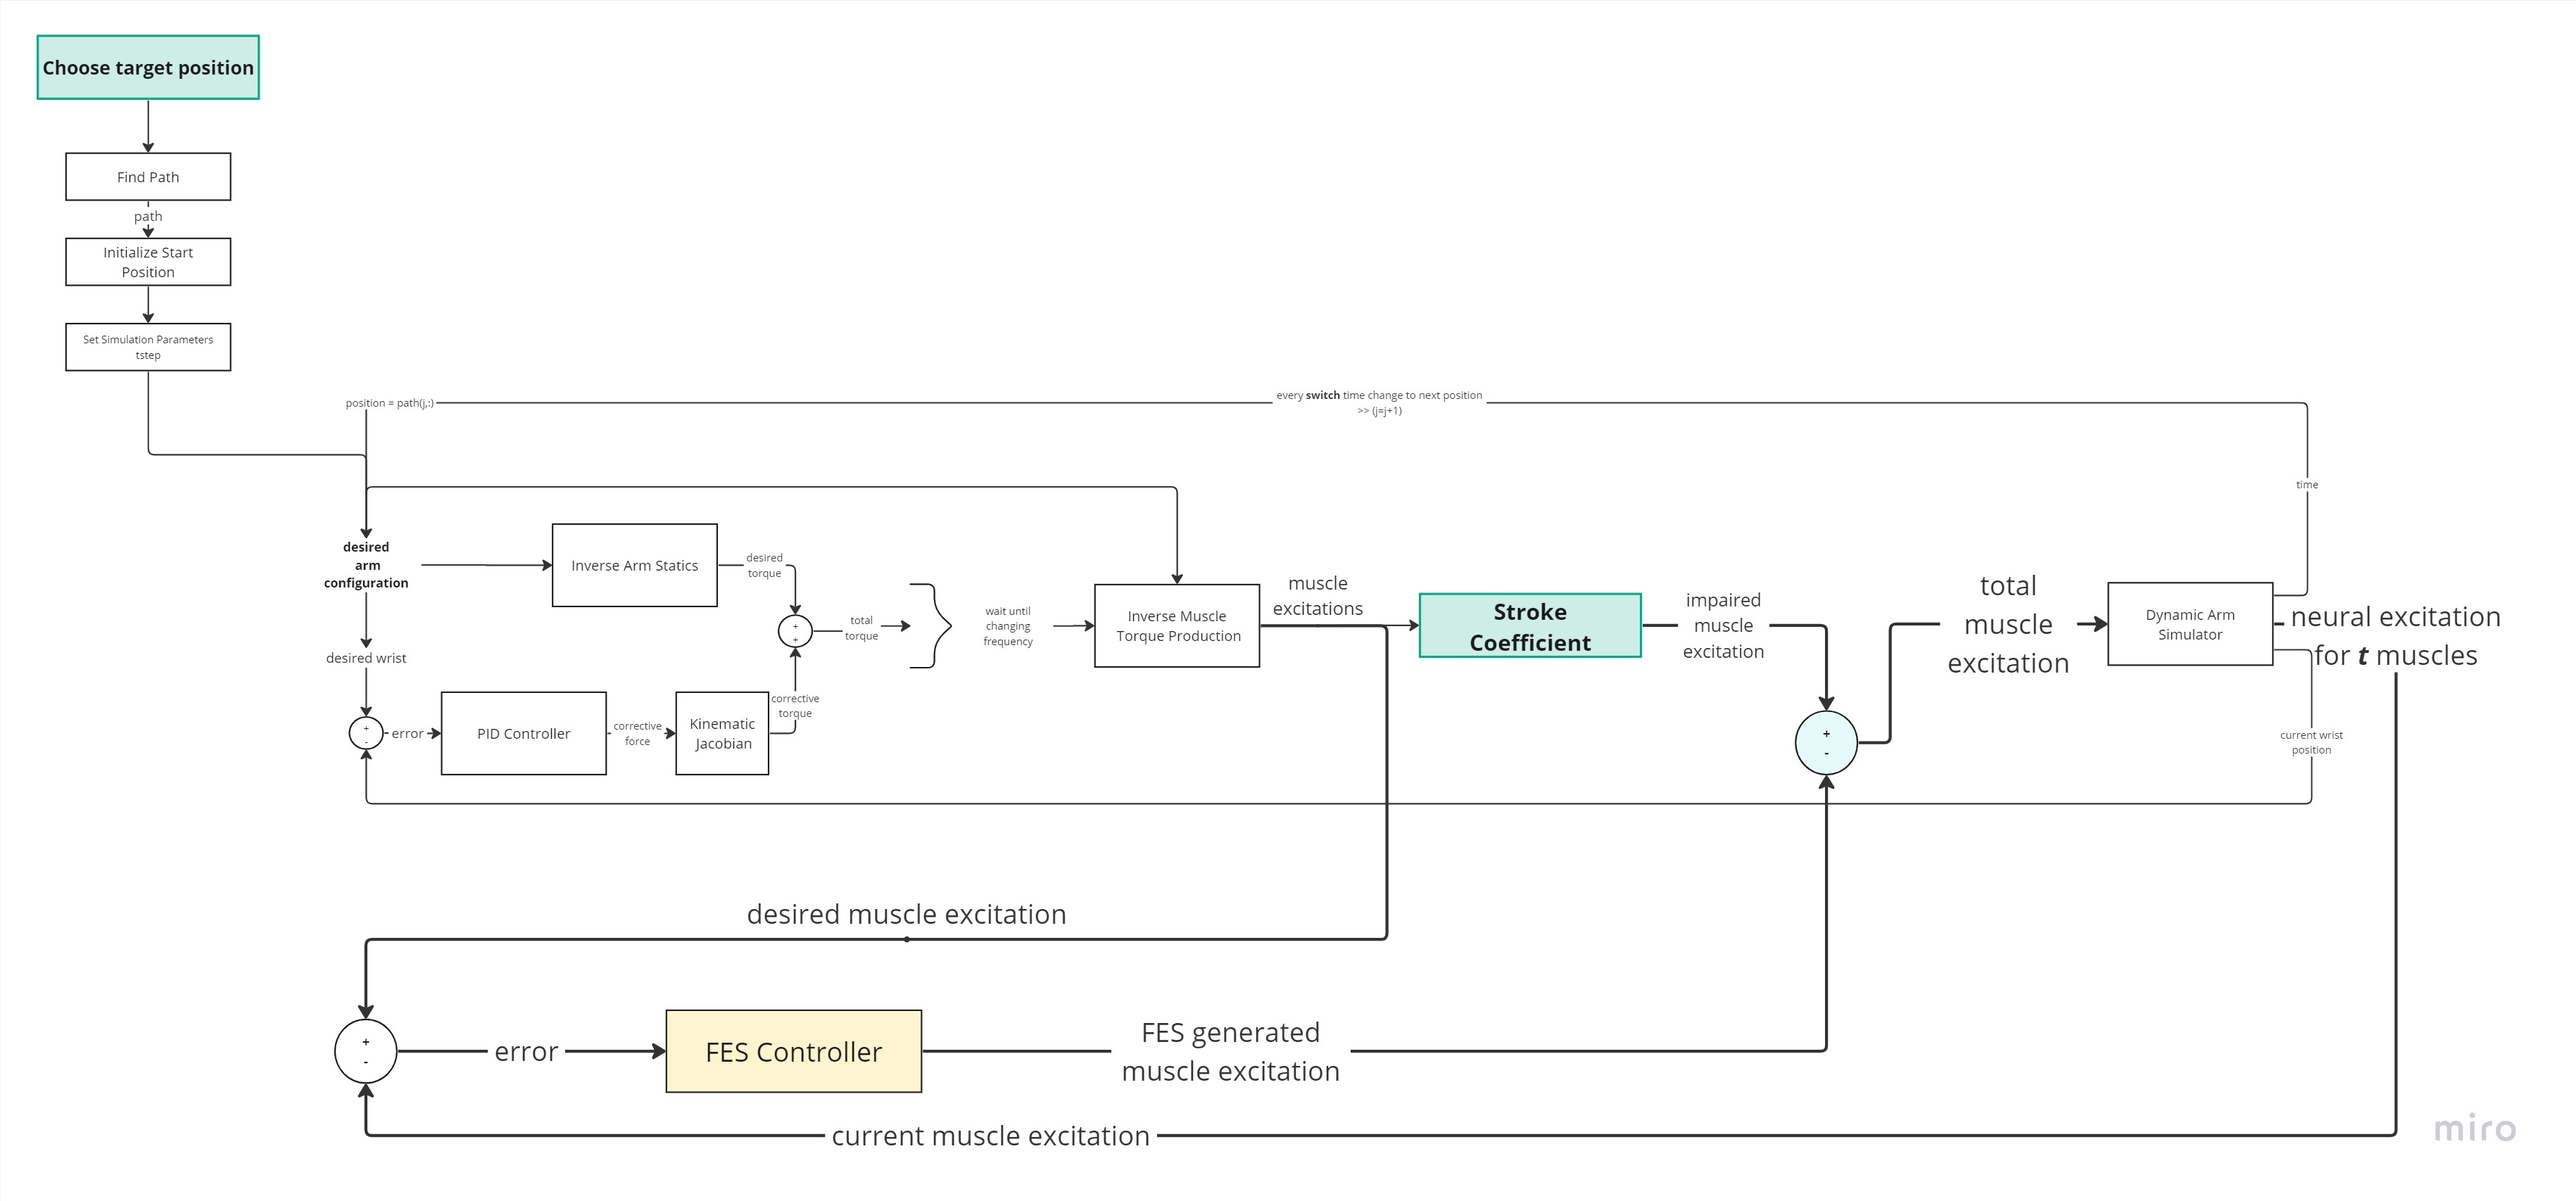
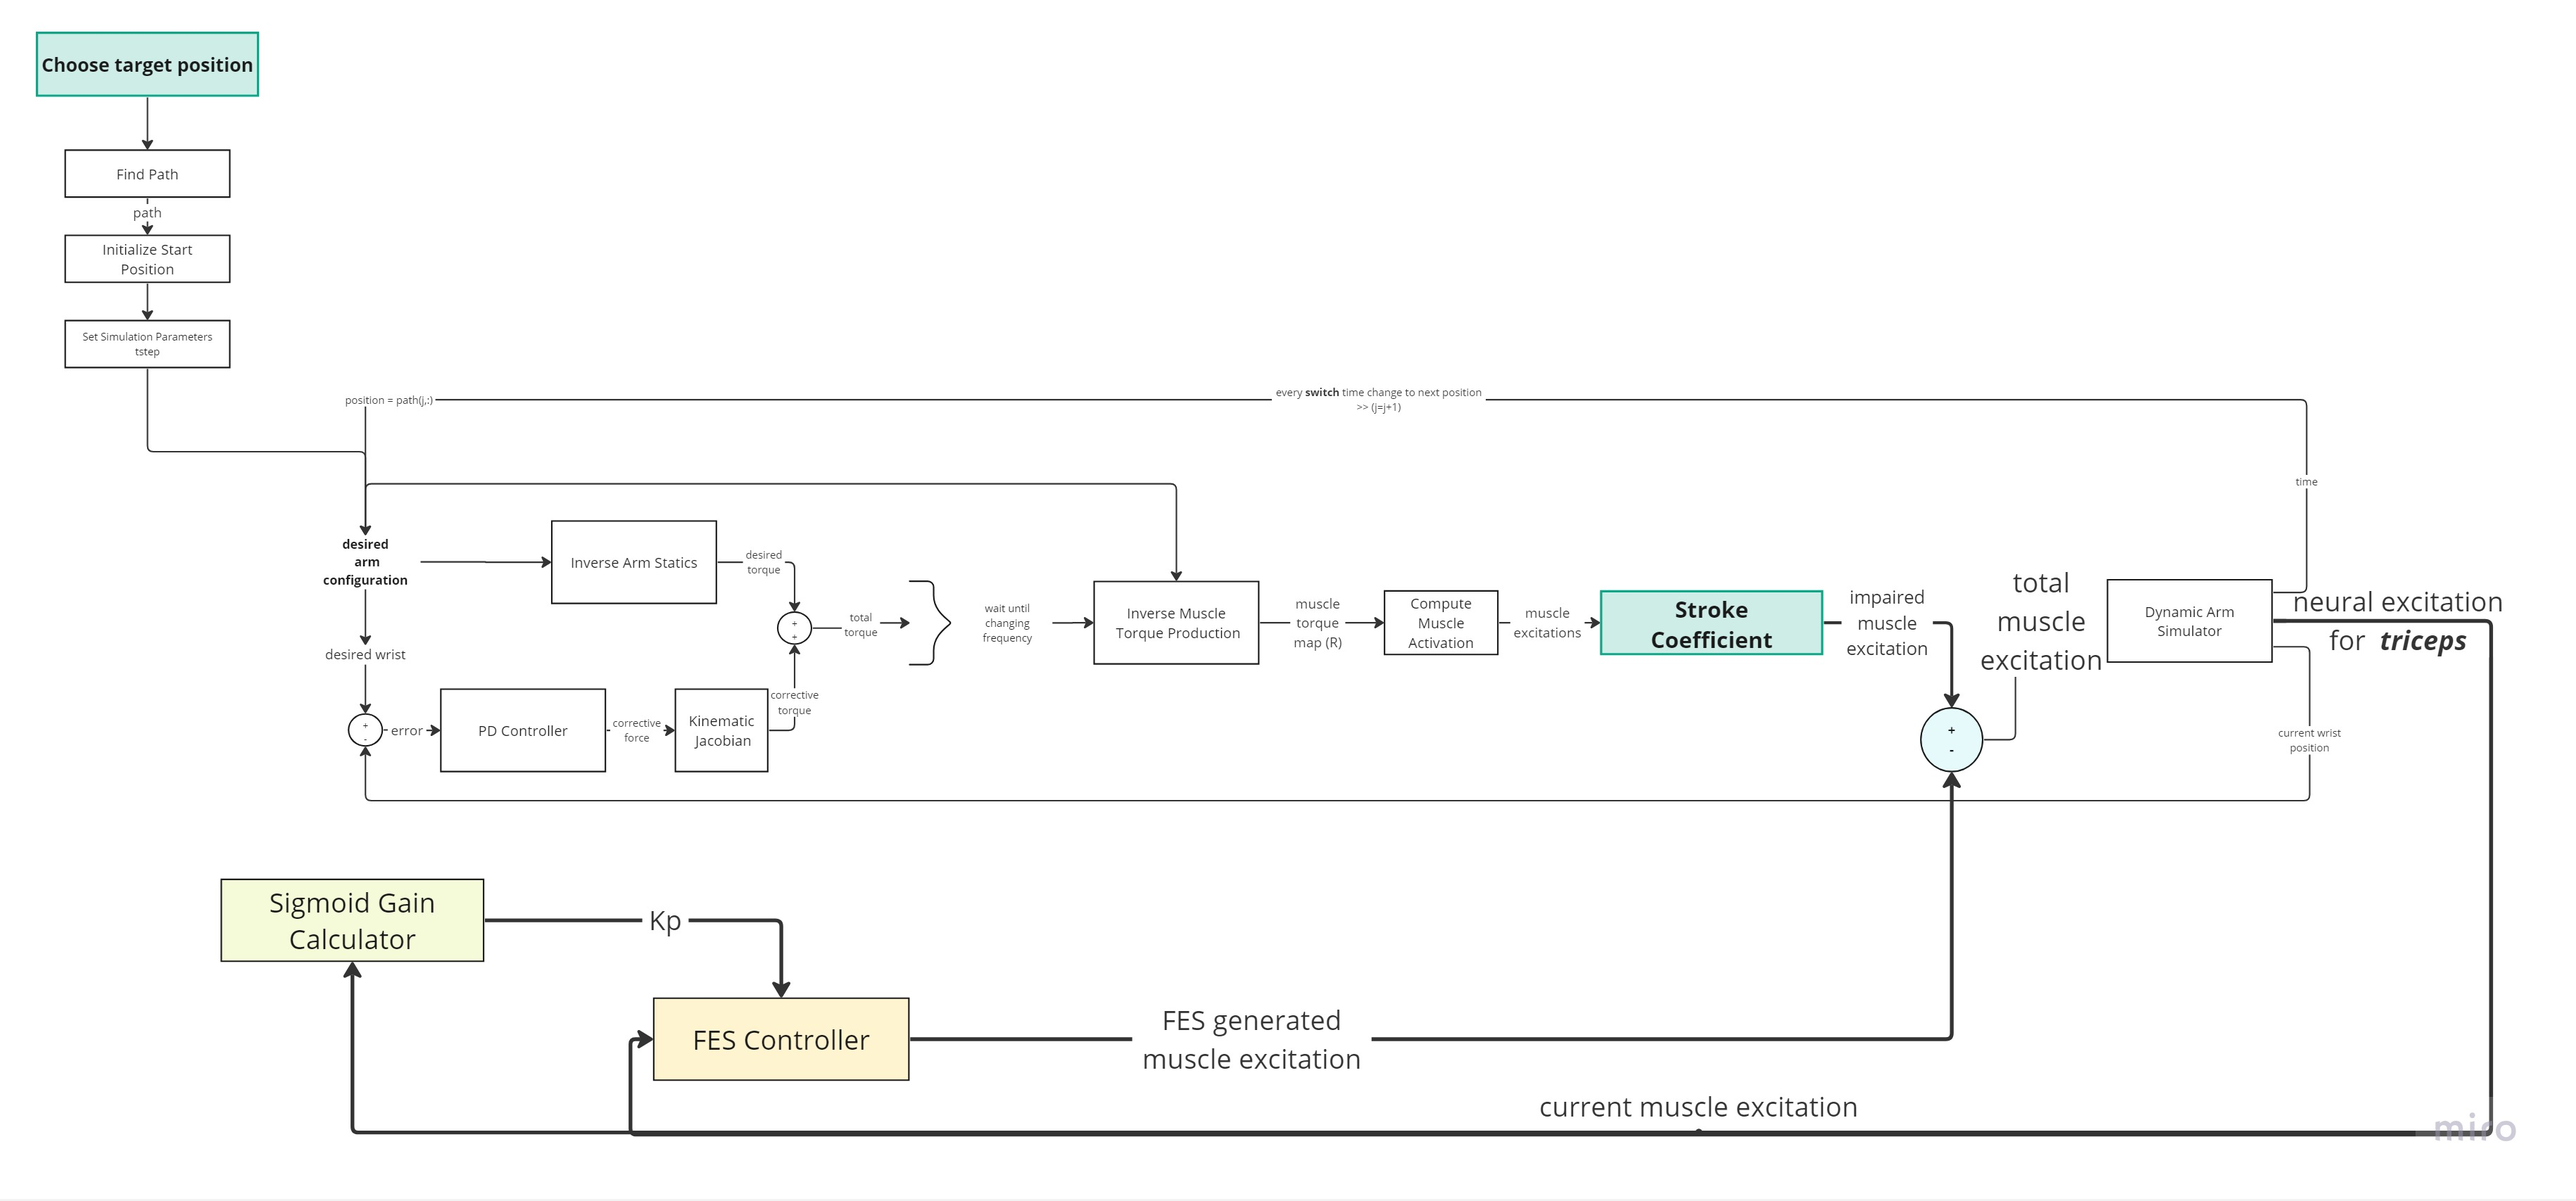
FInal Control

diff --git a/Chapters/05_3_Control_Design.tex b/Chapters/05_3_Control_Design.tex
@@ -22,17 +22,8 @@ The Dynamic Arm Simulator will then determine the arm's dynamics in accordance w
 To assure the PID Controller's performance, an exhaustive hand-tuning was undertaken across 20 different positions, concluding in values of \(K_p = 300\) and \(K_i = 100\). \(K_d = 0\) resulting in only a PD. 
 
 \subsection{Predicting Static Torque}
-static_torque = predict_static_torque(desired_arm_config)';
-desired_torque = torque_feedback+static_torque;
-TotalTorque(i,:)=desired_torque;
-if mod(i,10)==0
-    alpha0 = compute_neural_excitation(desired_arm_config, ...
-        desired_torque,alpha0);
-    for m=1:8
-        mus=whichMuscles(m);
-        u(mus)=alpha0(m)*1;
-    end            
-end
+
+To predict the static torque values for an arm configuration, the hyperparameters found for the Gaussian Process Arm Statics model described on section \ref{sec:model} are used. The resultant torque represent the torque needed to hold the arm static in that configuration.
 
 \subsection{Predicting Muscle Excitations}\label{computemuscleexcitation}
 
@@ -40,45 +31,27 @@ In muscle-driven systems, accurately determining muscle activation patterns is c
 
 The objective is to compute the muscle activation \texttt{act} for given muscle-torque relationships \texttt{M}, desired torques \texttt{tau}, and initial guesses for activations \texttt{alpha0}.
 
-The muscle-torque relationships \texttt{M} the Muscle Torque Production model hyperparameters calculated following the steps explain in Section \ref{sec:model}. This outputs a matrix each column represents the torque about the shoulder elevation plane, shoulder elevation, shoulder rotation adn elbow flexion produced by each muscle group. 
+The muscle-torque relationships \texttt{M} the Muscle Torque Production model hyperparameters calculated following the steps explain in Section \ref{sec:model} (see Formula \ref{eq:MAP}). The model gives out a matrix each column represents the torque for the desired shoulder elevation plane, shoulder elevation, shoulder rotation and elbow flexion produced by each muscle group. 
 
-\subsection{Methodology}
-\begin{description}
-    \item[Objective:] Solve the equation \( M \cdot \alpha = \tau \) for the muscle activations \( \alpha \).
-    \item[Broyden's Quasi-Newton Method:] This iterative optimization technique is employed to approximate the solution of the equation. It starts with an initial guess and updates it based on a Broyden approximation to the inverse Jacobian matrix.
-\end{description}
+The objective is to solve the equation:
+\begin{equation}
+    \tau_{desired} = M * \alpha_0
+\end{equation}
 
-\subsection{Output Constraints}
-Ensure activations are non-negative and normalized such that the maximum activation does not exceed 1.
+In other words how much activation the different muscle groups need to generate the desired torque. 
 
-\section{Armijo Rule: \texttt{armijo}}
+The \textbf{quasi-newton method} is the iterative method used to find this function´s minimum. As computing the Hessian tends to be computationally expensive, the quasi-newton method build an approximation of it iteratively. In other words, it uses and approximation of the information of the function's curvature (Hessian) to find the shortest way to the minimum. 
 
-\subsection{Overview}
-Determines the optimal step size (or learning rate) during iterations, ensuring a sufficient decrease in the function value.
+The function is supported by the Armijo rule and a penalty-based approach, where the muscle activation are effectively optimized. 
 
-\subsection{Methodology}
-Using a backtracking approach, the step size \texttt{alpha1} is repeatedly halved until the sufficient descent condition is met.
+The \textbf{armijo rule }is a method to decided how big of a step to take when trying to find he lower point of a curve or surface. 
+The step is halved every time a step is not taken into a direction where the value of the function is reduced as expected. 
 
-\section{Penalty Function: \texttt{penaltyFunc}}
+The \textbf{penalty function} makes sure that the muscle activations are withing the range of [0,1]. 
 
-\subsection{Overview}
-Imposes penalties on undesired muscle activations, such as negative values or values greater than one.
+Together, they are used to determine the step size of the quasi-Newton method and to include constraints in the optimization problem. 
 
-\subsection{Methodology}
-\begin{description}
-    \item[Objective Function:] Consists of three main components:
-    \begin{enumerate}
-        \item Quadratic norm of activations.
-        \item Quadratic difference between desired and actual torques scaled by a factor \( c \).
-        \item Penalty \( K \) for activations outside the [0,1] range scaled by a factor \( c2 \).
-    \end{enumerate}
-    \item[Gradient Computation:] Gradient of the objective function w.r.t. activations.
-\end{description}
-
-\section{Conclusion}
-
-The \texttt{computeActivation\_Nuri} function, supported by the Armijo rule and a penalty-based approach, effectively computes the muscle activations while ensuring feasible values. By employing the quasi-Newton method, the function efficiently converges to the optimal solution, providing a robust mechanism for muscle-torque simulations in biomechanical systems.
-            
+By employing, the quasi-Newton methods, the function efficiently converges to the optimal solution.             
 
 \subsection{Feasible Points}
 With this tuned controller, a grid, encompassing 960 points, was generated using the \textbf{create\_grid} function (refer to Section \ref{sec:tp}). Each point's arm configuration was calculated using the PI force controller, as detailed in Section \ref{sec:PI}. The feasibility of a point was determined by the ability of the controller to sustain for 1 second its position with an error margin of 0.1. For clarification purposes, the start and the goal position of the controller are set to be the same. 
@@ -93,6 +66,8 @@ The figures (gif if opened in Adobe Acrobat) below present the generated grid. P
     \caption{Feasible points. Open in Adobe Acrobat to see gif movement.}
     
 \end{figure}
+
+\newpage
 \section{Path Following Quasi-Static Controller Development } \label{sec:path}
 
 The goal is to develop a controller that allows the dynamic arm  to navigate or follow a specific trajectory or path. This will simulate the rehabilitation reaching task to be performed. For more information on rehabilitation tasks refer back to Section \ref{rehabilitation_task}. Quasi-static control allows to design a safe, precise and movement-controlled therapy, as it focuses on slow, steady and controlled operations. It facilitates the decomposition of the entire reaching path trajectory into smaller static positions. Dividing the task into smaller steps offers some benefits under the rehabilitation lens:
@@ -102,6 +77,13 @@ The goal is to develop a controller that allows the dynamic arm  to navigate or 
     \item \textbf{Minimized Fatigue} Continuous motions can take a toll in patients with limited strength and endurance. Smaller tasks reduce muscle and join strain preventing fatigue. Using a quasi-static controller can help modify the parameters to adjust to the patient's abilities. 
 \end{itemize}
 
+\begin{figure}[h!]
+    \centering
+    \includegraphics[width=1\textwidth]{Pictures/Controller/Quasi-Static Path Controller.jpg}
+    \caption{Flow Diagram Quasi-Static Path Controller }
+    \label{fig:PathController}
+\end{figure}
+\newpage
 For a clearer understanding of the quasi-static control designed, refer to the flow diagram included in this chapter (Figure \ref{fig:PathController}). Here’s a descriptive step-by-step breakdown of the process of path controller:
 
 \begin{enumerate}
@@ -128,12 +110,7 @@ For a clearer understanding of the quasi-static control designed, refer to the f
 In conclusion, the proposed controller is designed to guide a dynamic arm through specified trajectories, mimicking the rehabilitation reaching tasks outlined in Section \ref{rehabilitation_task}. Quasi-static control is used to emphasize safety, precision and control, three key components for a successful rehabilitation. Key components of the control system presented include a \textbf{\textit{find\_path} }function that uses KNN to find the best positions that will define the path to the desired target. Moreover the control loop, adapted from the one on Section \ref{NeuralController}, operated with timed neural excitation (controlled by the variable $frequency$) and position switching to guide the arm accurately along the predefined path (controlled by variable $time_{switch}$).
 
 
-\begin{figure}[h!]
-    \centering
-    \includegraphics[width=1\textwidth]{Pictures/Controller/Quasi-Static Path Controller.jpg}
-    \caption{Flow Diagram Quasi-Static Path Controller }
-    \label{fig:PathController}
-\end{figure}
+
 
 \subsection{Find Path Function} \label{findpath}
 
@@ -177,7 +154,7 @@ The code segment initiates by calculating muscle activation levels using the \te
 Considering the biomechanical implications, this project focuses on applying the Functional Electrical Stimulation the triceps. The control examines the triceps activation levels. This information comes from the Dynamic Arm Simulator and in a real case scenario it will come from EMG sensors situated in the triceps of the human. 
 
 If no activation is detected, a default minimal value is assigned. However, in cases with existing activation, a sigmoid-based control system is adopted. 
-\begin{equation}
+\begin{equation}\label{sigmoid}
     \sigma(z) = \frac{1}{1 + e^{-z}}
 \end{equation}
 
@@ -196,4 +173,35 @@ For correct simulation it is ensured that the triceps activation remains bounded
   \end{figure}
 \end{landscape} % End landscape page
 
-\subsection{P Controller Tuning: Simulated Annealing}
+\subsection{PD Controller Tuning: Simulated Annealing}
+
+
+Building on the insights from the study by \cite{PDP}, their approach was adopted to refine the performance of a proportional derivative controller for a two-segment planar arm model.
+
+The core idea was to identify the best controller gains for the sigmoid function (Equation \ref{sigmoid}) by minimizing the positional error over time. This error was quantified by the formula:
+
+\begin{equation}
+f_{error} = \sqrt{\frac{1}{2TN_m}\sum_{i=1}^{N_m}\sum_{j=1}^{3}\int_{0}^{T}(\varphi_{ij}(t)-\varphi_{ij}^{target})^2 dt}
+\end{equation}
+
+Here, $\varphi_{ij}(t)$ represents the wrist's current position in either x, y, or z coordinates, while $\varphi_{ij}^{target}$ indicates the desired wrist position. The term $T$ specifies the movement's time span, and $N_m$ denotes the 10 arbitrary movements carried out during the simulation.
+
+To calculate the optimal values, simulated annealing algorithm \cite{SimulatedAnnealing} was utilized. Simulated annealing is a probabilistic technique for approximating the global optimum of a given function. It seeks to find the best solution. 
+
+It begins with a initial solution which is set to an initial high temperature. This temperature will control the likelihood of accepting worse solutions as the algorithm progresses. At each iteration a neighbouring solution is chosen randomly. If the neighbouring solution is better than the current one it is accepted as the new current solution. If it is worsen it may accept it depending on the temperature and the difference in quality of accepting the solution or not. After each iteration the temperature is cooled down following the cooling schedule. 
+
+
+The Matlab function \textbf{simulannealbn} is used with the default annealing function \textit{annealingfast}. This function represents how the new points are generated for the next iteration. In this case it has a step with the length temperature (higher temperature higher step) and with a direction uniformly at random. The temperature function used is \textit{temperatureexp}, an exponential decay where the temperature is multiplied by a factor between 0 and 1. The algorithm stops when the temperature reaches a predetermined minimum value, after a fixed number of iterations. 
+
+Simulated annealing avoids getting trapped in local minima, as early on when the temperature is higher the algorithm is more willing to accept worse solutions. In other words, as the temperature cools down the algorithm becomes more selective. 
+
+For this project purposes, maximum of 100 iterations is stipulated, a fixed a function tolerance at 1e-3, and an initial estimate of [10 1.3] for the sigmoid function's two gains  is provided.. The bounds for the controller gains were set between [1.2 3] and [3 15].
+
+The simulated annealing successfully calculated the proportional value to be equal to [2.99 14.478].
+
+\begin{figure}[h!]
+    \centering
+    \includegraphics[width=0.6\textwidth]{Pictures/Controller/simulated_annealing.jpg}
+    \caption{Simulated Annealing Explanatory Diagram \cite{SANN}}
+    \label{fig:simulatedannealing}
+\end{figure}

diff --git a/Chapters/05_2_Model_Identification.tex b/Chapters/05_2_Model_Identification.tex
@@ -220,13 +220,13 @@ If no muscles are activated, the torque needed to hold the the wrist in static p
 
 where $p(q) \epsilon  R^{4x1}$. 
 
-The torque produced by the muscle's group $j$ activations is calculating by subtracting the torques recorded when no muscles are activated and the torques recorded with muscle group $j$ active. This torque  is represented by $R(q)\alpha$ where $\alpha \epsilon R^{9x1}$ is the vector of muscle group activations and $R(q) \epsilon R^{4x9}$ is the mapping from muscle group activation to joint torque. It is assumed that the torques scales linearly with activation \cite{SPI}. 
+The torque produced by the muscle's group $j$ activations is calculating by subtracting the torques recorded when no muscles are activated and the torques recorded with muscle group $j$ active. This torque  is represented by $M(q)\alpha$ where $\alpha \epsilon M^{8x1}$ is the vector of muscle group activations and $M(q) \epsilon M^{4x8}$ is the mapping from muscle group activation to joint torque. It is assumed that the torques scales linearly with activation \cite{SPI}. 
 
-\begin{equation}
-    R_j(q) = \tau_0 - \tau_j
+\begin{equation} \label{eq:MAP}
+    M_j(q) = \tau_0 - \tau_j
 \end{equation}
 
-Each column of $R(q)$ describes the torque generated by each muscle group at full activation. It is assumed that individual muscle torques add linearly without interference from adjacent muscles or connective tissue interactions. 
+Each column of $M(q)$ describes the torque generated by each muscle group at full activation. It is assumed that individual muscle torques add linearly without interference from adjacent muscles or connective tissue interactions. 
 
 
 
